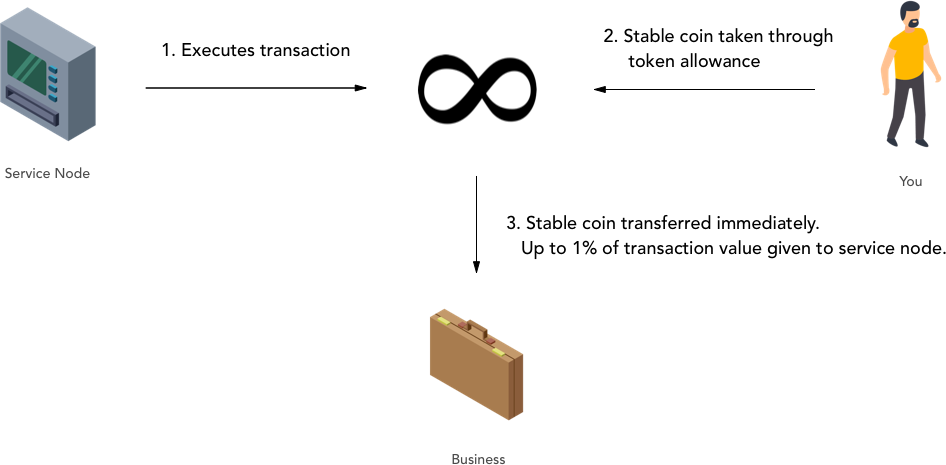
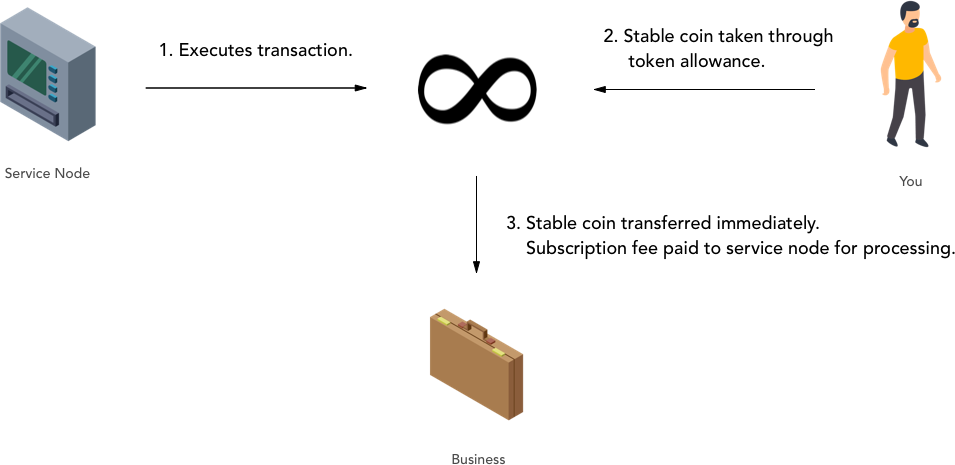
Updated content to reflect new dynamic fee structure

diff --git a/src/pages/home/index.js b/src/pages/home/index.js
@@ -117,22 +117,21 @@ class Home extends Component {
                                 <img class="icon" src={desk}/>
                                 <p>
                                     8x tokens are required to be staked in order to run service nodes. 
-                                    This in turns allows token holders to earn up to 1% of every transaction executed by them. The larger the transaction, the more 8x tokens are required.
+                                    This in turns allows token holders to earn a fee from every transaction executed by them. The larger the transaction, the more 8x tokens are required.
                                 </p>
                             </div>
 
                             <div class="reason">
                                 <img class="icon" src={platform}/>
                                 <p>
-                                    If service nodes claim the right to execute a transaction 20 days before a monthly payment is due, they earn 1/3 of 1%. 
-                                    The remaining 2/3 of the 1% fee are used to purchase 8x tokens on the market and then burned.
+                                    Token holders can set the strategy they would like to play in order to claim subscriptions. High risk, high reward? Or balanced risk with consistent returns?
                                 </p>
                             </div>
 
                             <div class="reason">
                                 <img class="icon" src={chip}/>
                                 <p>
-                                    Governance rights. Any major changes to the protocol may be voted on based on the number of tokens held.
+                                    Service nodes earn in the stable coin being transacted, not 8x tokens. In addition, gas costs are pre-paid by the user so extra costs do not have to be factored into expected profts.
                                 </p>
                             </div>
 
@@ -153,9 +152,9 @@ class Home extends Component {
 
                         <div class="items">
 
-                            <EcosystemBox header={businessIcon} tick={redCheckmark} title="Businesses" features={["Zero volatility through the use of Dai stable coin", "Cheaper than Stripe & PayPal", "Easy to implement SDKs"]}/>
+                            <EcosystemBox header={businessIcon} tick={redCheckmark} title="Businesses" features={["Zero volatility through the use of Dai stable coin", "Set your own transaction fee based on your business model", "Easy to implement SDKs"]}/>
                             <EcosystemBox header={userIcon} tick={yellowCheckmark} title="Users" features={["Zero volatility through the use of Dai stable coin", "Manage all your subscriptions through one interface", "Your funds always stay with you, in your control"]}/>
-                            <EcosystemBox header={tokenHoldersIcon} tick={greenCheckmark} title="Token Holders" features={["Earn 8x tokens by processing transactions on the network", "Have a say in what changes are made to the protocol"]}/>
+                            <EcosystemBox header={tokenHoldersIcon} tick={greenCheckmark} title="Token Holders" features={["Earn by processing transactions on the network", "Select your service node's strategy"]}/>
 
                         </div>
 
